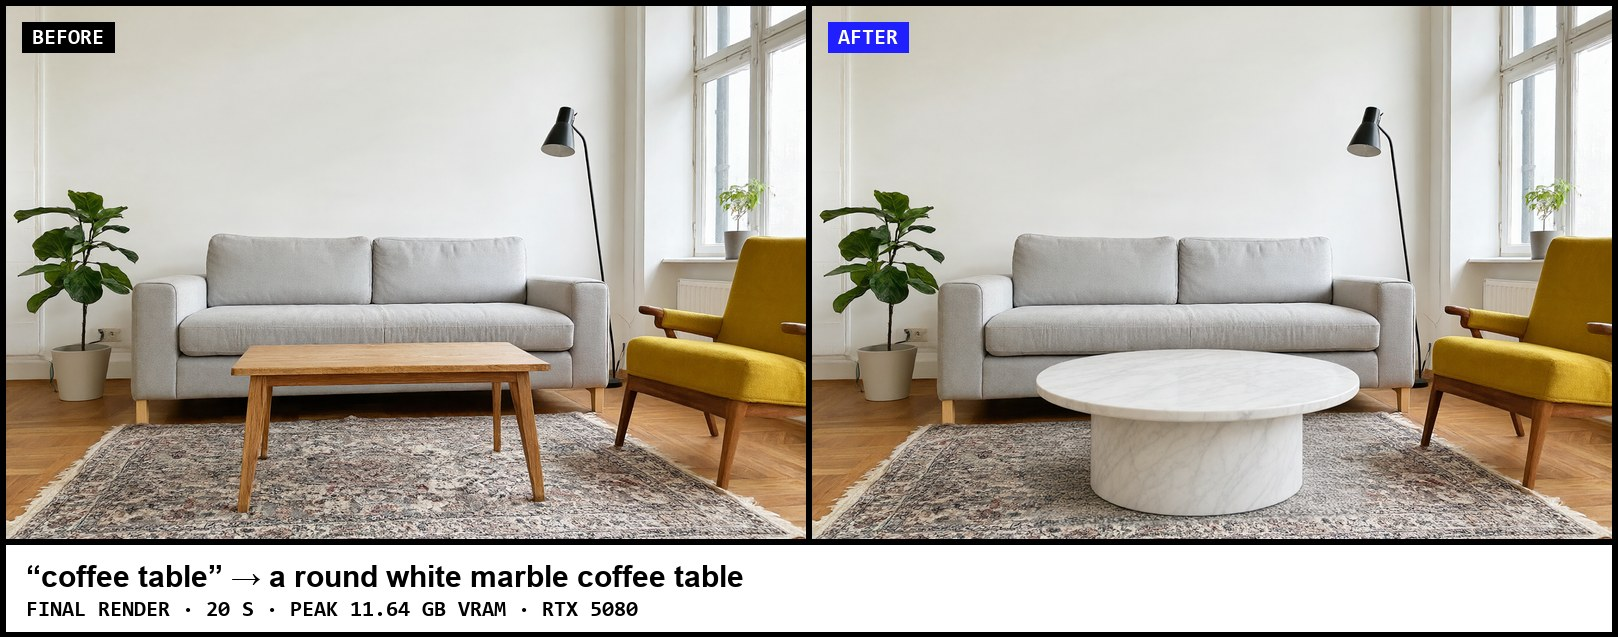
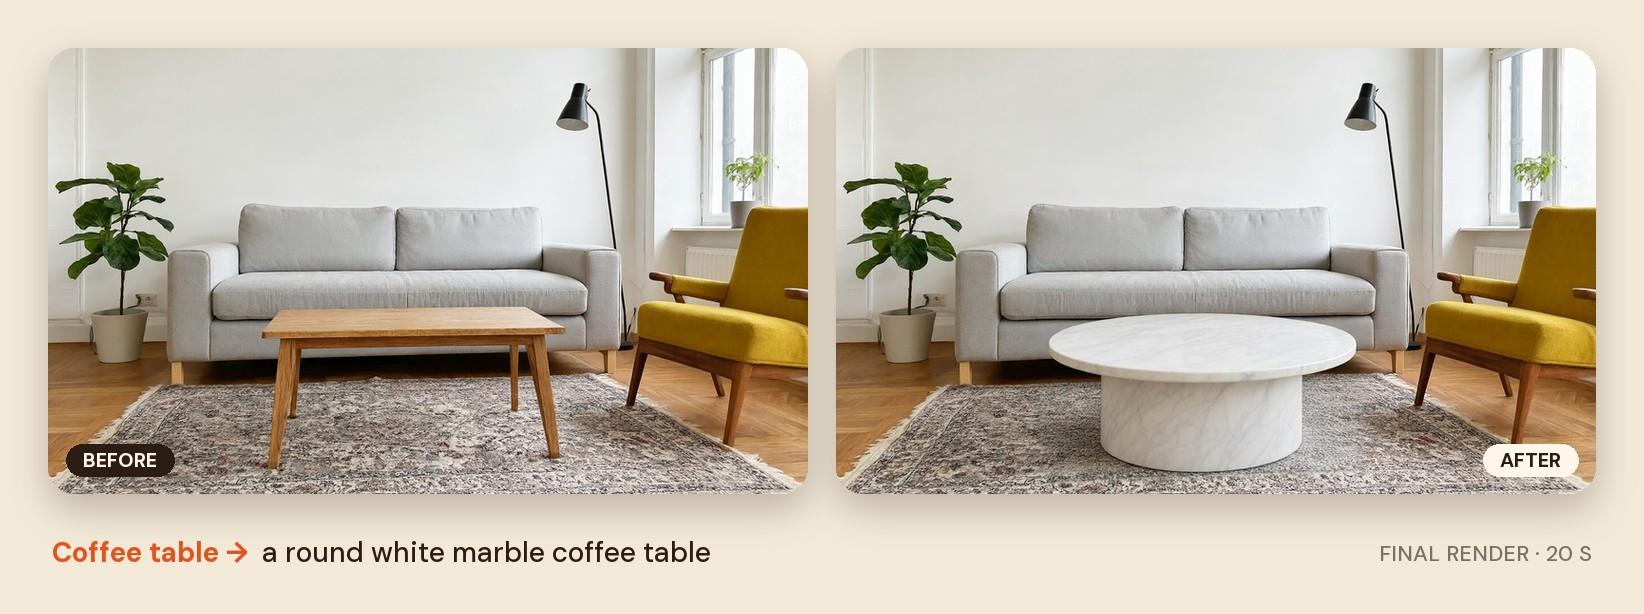
Readme now matching new styling

diff --git a/README.md b/README.md
@@ -1,45 +1,54 @@
-# TensorRoom
+<p align="center"><sub>INTERIOR REDESIGN · LOCAL AI</sub></p>
 
-**Photograph a room, say what should change, and see it redesigned, all on your own GPU.**
+<h1 align="center">Tensor<i>Room</i></h1>
 
-TensorRoom finds the furniture you name in a photo, lets you pick which pieces to change, and redraws only those areas with Qwen-Image-2.1. Everything else in the room stays exactly as it was. It runs entirely locally on a single NVIDIA RTX 5080 (16 GB) and is built to be used from a phone.
+<p align="center"><b>Photograph a room, say what should change and see it redesigned, all on your own GPU.</b></p>
+
+<p align="center"><i>Photo.</i> &nbsp;·&nbsp; <i>Pick.</i> &nbsp;·&nbsp; <i>Redraw.</i></p>
+
+---
+
+TensorRoom finds the furniture you name in a photo, lets you choose which pieces to change, and redraws only those areas with Qwen-Image-2.1. Everything else in the room stays exactly as it was. It runs entirely locally on a single NVIDIA RTX 5080 (16 GB) and is made to be used from a phone.
 
 ![A grey sofa restyled as dark green velvet, everything else unchanged](docs/images/edit-1-sofa.jpg)
+<sub><b>Fig. 01</b> &nbsp;A grey sofa, redrawn in dark green velvet. Final render, 22 s.</sub>
 
-## How it works
+## The pipeline
 
-### 1. Take a photo, pick what to change, get the result
+### 01 · Your room
 
-The web app is designed for phones first. Take a photo (or choose one), type or tap the objects to change, tap the matches you want on the photo, and describe the new piece. A preview takes about 12 seconds; drag the slider to compare before and after.
+The web app is made for phones first: "Take a photo" opens the camera directly. Before anything is stored, the photo is checked for people. TensorRoom only edits rooms, so a photo of someone is refused, while a portrait, poster or TV on the wall is recognised as part of the room and allowed.
 
-![The phone app: capture, select objects, compare result](docs/images/ui-flow.jpg)
+![The phone app: capture, choose objects, compare the result](docs/images/ui-flow.jpg)
+<sub><b>Fig. 02</b> &nbsp;Capture, choose, compare: the whole flow on a phone.</sub>
 
-### 2. Find the objects
+### 02 · What to change
 
-Your words are matched to objects in the photo (a small dictionary in `config.yaml` maps "couch" to "sofa" and so on), and each match gets a precise mask. Here, "sofa, rug, coffee table, chair" were all found in about 2 seconds:
+Name the pieces, or tap a suggestion. Your words are matched to objects in the photo (a small dictionary in `config.yaml` maps "couch" to "sofa" and so on), and each match gets a precise mask. Here, "sofa, rug, coffee table, chair" were all found in about 2 seconds:
 
 ![Each detected object highlighted in its own colour](docs/images/find-objects.jpg)
+<sub><b>Fig. 03</b> &nbsp;Four pieces found, each with its own mask.</sub>
 
-### 3. Redraw only those areas
+### 03 · Choose & describe
 
-Only a crop around the chosen objects is sent to the image model, so a 12-megapixel phone photo edits as fast as a small one. The result is blended back through a soft-edged mask, so pixels outside it are copied byte-for-byte from the original.
+Tap the photo or the list to choose pieces, then say what they should become. Only a crop around the chosen pieces is sent to the image model, so a 12-megapixel phone photo edits as fast as a small one. Each piece's mask is filled out to its outline's hull first, so a four-legged table can become a pedestal table.
 
 | | |
 |---|---|
 | ![Patterned rug swapped for a round jute rug](docs/images/edit-2-rug.jpg) | ![Oak coffee table replaced with a round marble pedestal table](docs/images/edit-3-coffee-table.jpg) |
-| ![Mustard armchair reupholstered in cognac leather](docs/images/edit-4-chair.jpg) | ![The original room](docs/images/room.jpg) |
+| <sub><b>Fig. 04</b> &nbsp;Rug → round natural jute. 17 s.</sub> | <sub><b>Fig. 05</b> &nbsp;Coffee table → round white marble. 20 s.</sub> |
+| ![Mustard armchair reupholstered in cognac leather](docs/images/edit-4-chair.jpg) | ![The original room](docs/images/original.jpg) |
+| <sub><b>Fig. 06</b> &nbsp;Armchair → cognac leather. 26 s.</sub> | <sub><b>Fig. 07</b> &nbsp;The original room, itself generated by Qwen-Image-2.1.</sub> |
 
-The example room was itself generated by Qwen-Image-2.1. Results vary between runs; if an edit misses, run it again (each run uses a new random seed), sequential editing is possible but can have varying results.
+### 04 · The result
 
-```
-phone / browser ──HTTP──▶ server.py   one long-running GPU worker, one job at a time
-                            ├─ segmentation   words → object masks (Grounding DINO + SAM, or SAM 3)
-                            ├─ masks.py       hull + grow mask → crop around it
-                            ├─ editor.py      Qwen-Image-2.1 redraws the crop (4-step preview or full render)
-                            └─ masks.py       soft-edged paste-back into the full photo
-```
+The edit is blended back through a soft-edged mask, so pixels outside it are copied byte-for-byte from the original. Drag across the photo to compare before and after, save it, or keep editing the result. Every image that leaves the worker carries a small TensorRoom watermark and metadata marking it as partly AI-generated, which photo apps and content checkers can read.
 
-## Performance (measured on an RTX 5080, 16 GB)
+Results vary between runs; if an edit misses, run it again (each run uses a new random seed). Sequential editing is possible but can give varying results.
+
+## Performance
+
+<sub>Measured on an RTX 5080, 16 GB.</sub>
 
 | Step | Time | Peak VRAM |
 |---|---|---|
@@ -99,11 +108,13 @@ Everything lives in `config.yaml`. The settings most worth knowing:
 | `editor.mask_mode` | annotated | How the area is shown to the model. `separate` caused junk transparent areas in testing |
 | `segmentation.backend` | grounded_sam | `sam3` once you have access |
 | `segmentation.vocabulary` | | The words-to-objects dictionary ("couch" → "sofa") |
+| `guardrails.block_terms` | person, human face | What makes a photo be refused; `artwork_terms` lists what counts as a picture on the wall |
+| `branding.watermark_width` | 0.08 | Watermark size as a fraction of the image width; `watermark_enabled` turns it off |
 
 ## Development
 
 - **Try the app without a GPU:** add `?demo` to the address (e.g. `http://127.0.0.1:8765/?demo`) to click through the whole flow with simulated results.
-- **Tests:** `uv run pytest` (mask and crop maths; no GPU needed).
+- **Tests:** `uv run pytest` (masks, guardrails and branding; no GPU needed).
 - **Benchmark your own photos:** `uv run python scripts/benchmark.py --images <folder> --terms sofa --instruction "a green velvet sofa"`.
 - **Regenerate the README images:** stop the worker, then `uv run python scripts/make_docs_images.py`.
 
@@ -112,6 +123,8 @@ server.py              GPU worker (FastAPI): API + serves the web app
 web/                   mobile web app (plain HTML/CSS/JS, no build step)
 config.yaml            all settings
 src/pipeline.py        segment → crop → edit → paste back
+src/guardrails.py      refuses photos of people before anything is stored
+src/branding.py        watermark + "generated by TensorRoom" metadata on every output
 src/diffusion/         editor.py (Qwen-Image-2.1)
 src/segmentation/      grounded_segmenter.py, sam3_segmenter.py, masks.py
 src/runtime/           model_manager.py: loads models once, decides what sits on the GPU
@@ -125,9 +138,9 @@ scripts/               environment check, downloads, quantisation, benchmark, RE
 - **Furniture suggestions:** describe what you want and pick from about three catalogue pieces (local FAISS index with all-MiniLM-L6-v2 embeddings, drag-and-drop choice). Qwen-Image-2.1 accepts reference images, so the chosen product can be drawn into the room.
 - **Shopping list:** match the final room's pieces back to the catalogue.
 - **Faster previews:** NVFP4 weights for the RTX 50 series' 4-bit tensor cores.
-- **Merge into one view** Rather than scrolling through all stages one combined view with back forth arrows.
-- **Further user testing and surveys** Get UI/UX testing performed to truly evaluate if its working.
-- **Config editing** Allow users to fine tune model settings and more within the app
+- **One combined view:** rather than scrolling through all the stages, one view with back and forward arrows.
+- **User testing and surveys:** get UI/UX testing done to properly evaluate whether it works for people.
+- **Settings in the app:** let users fine-tune model settings and more from within the app.
 
 ## Contributors
 
